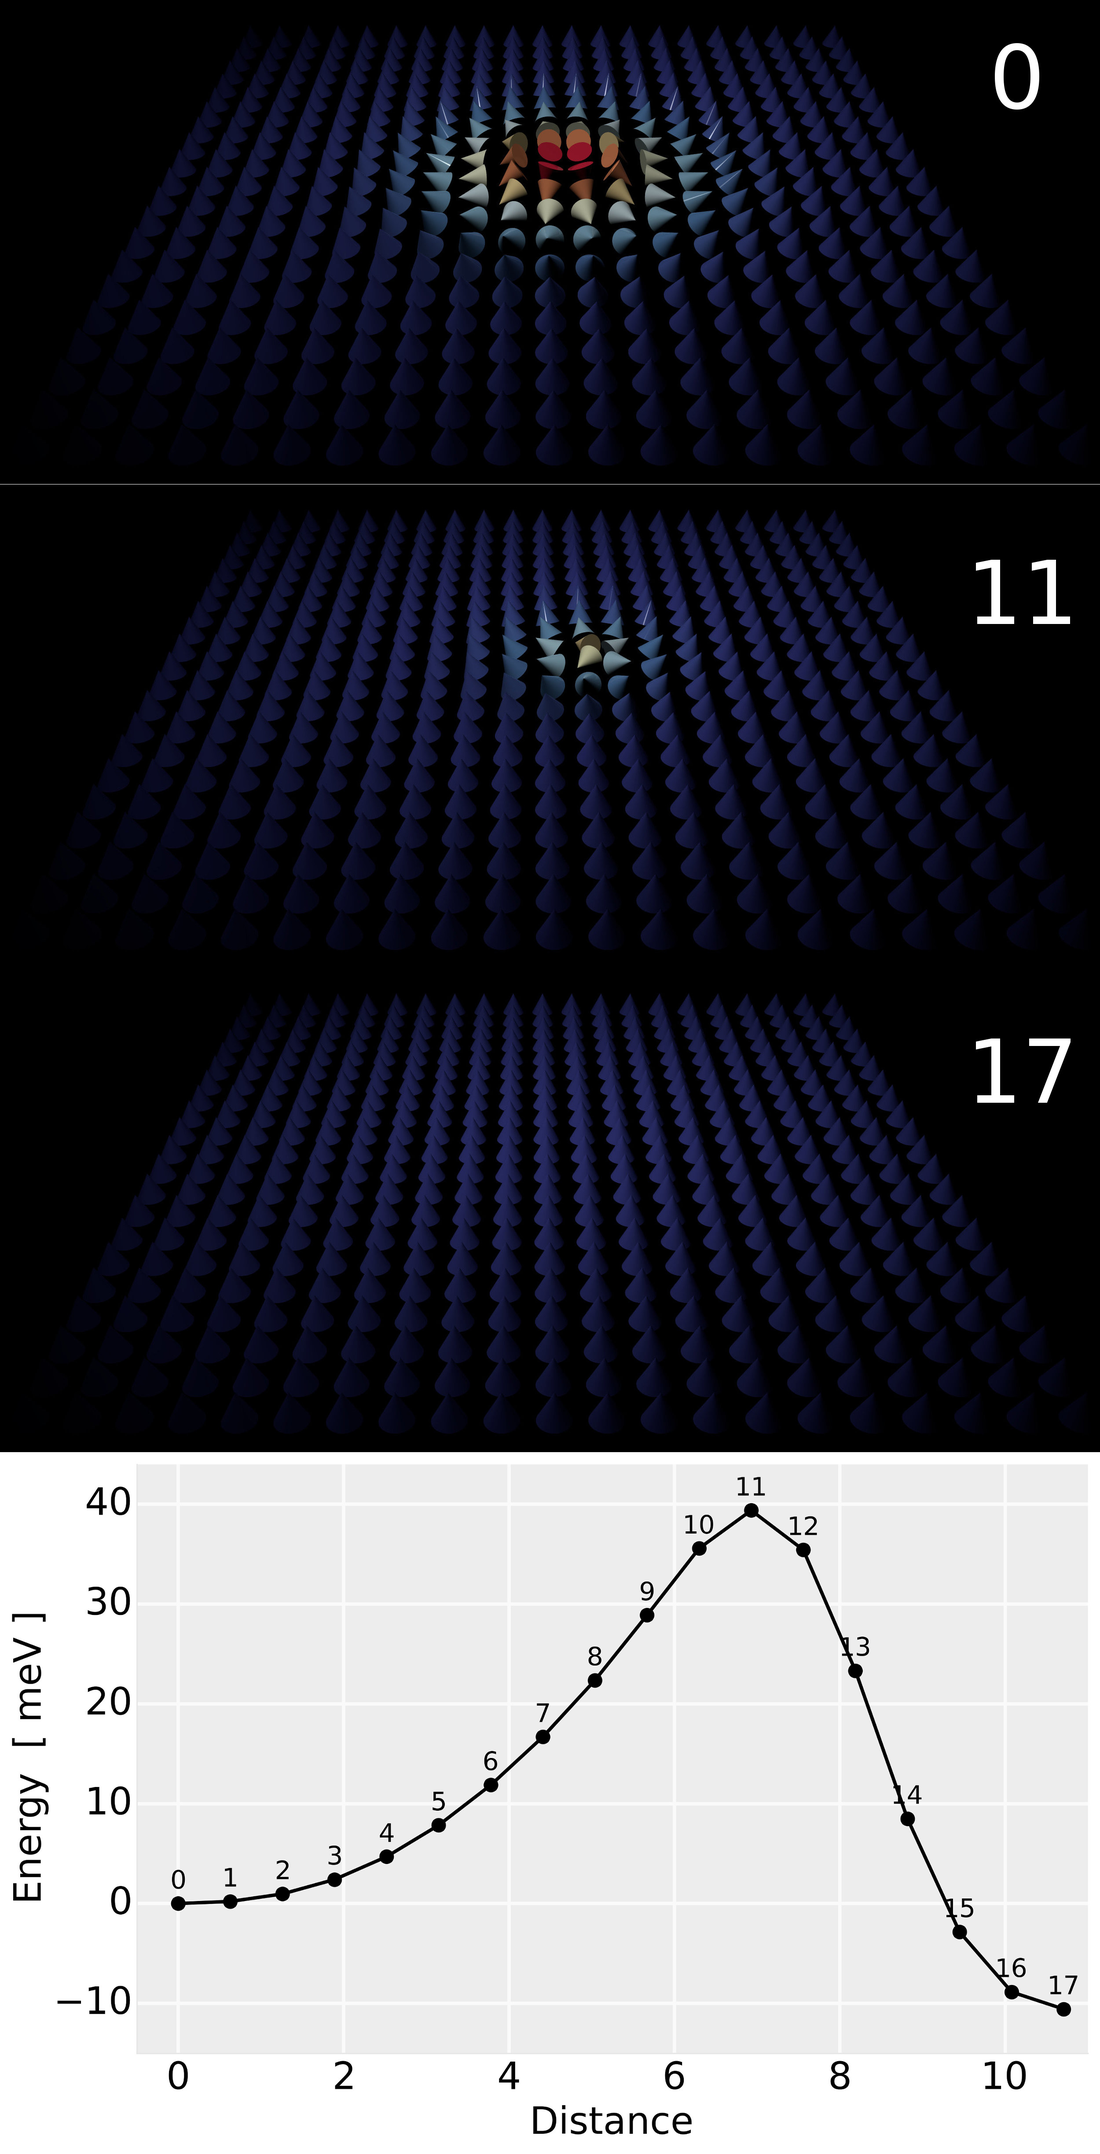
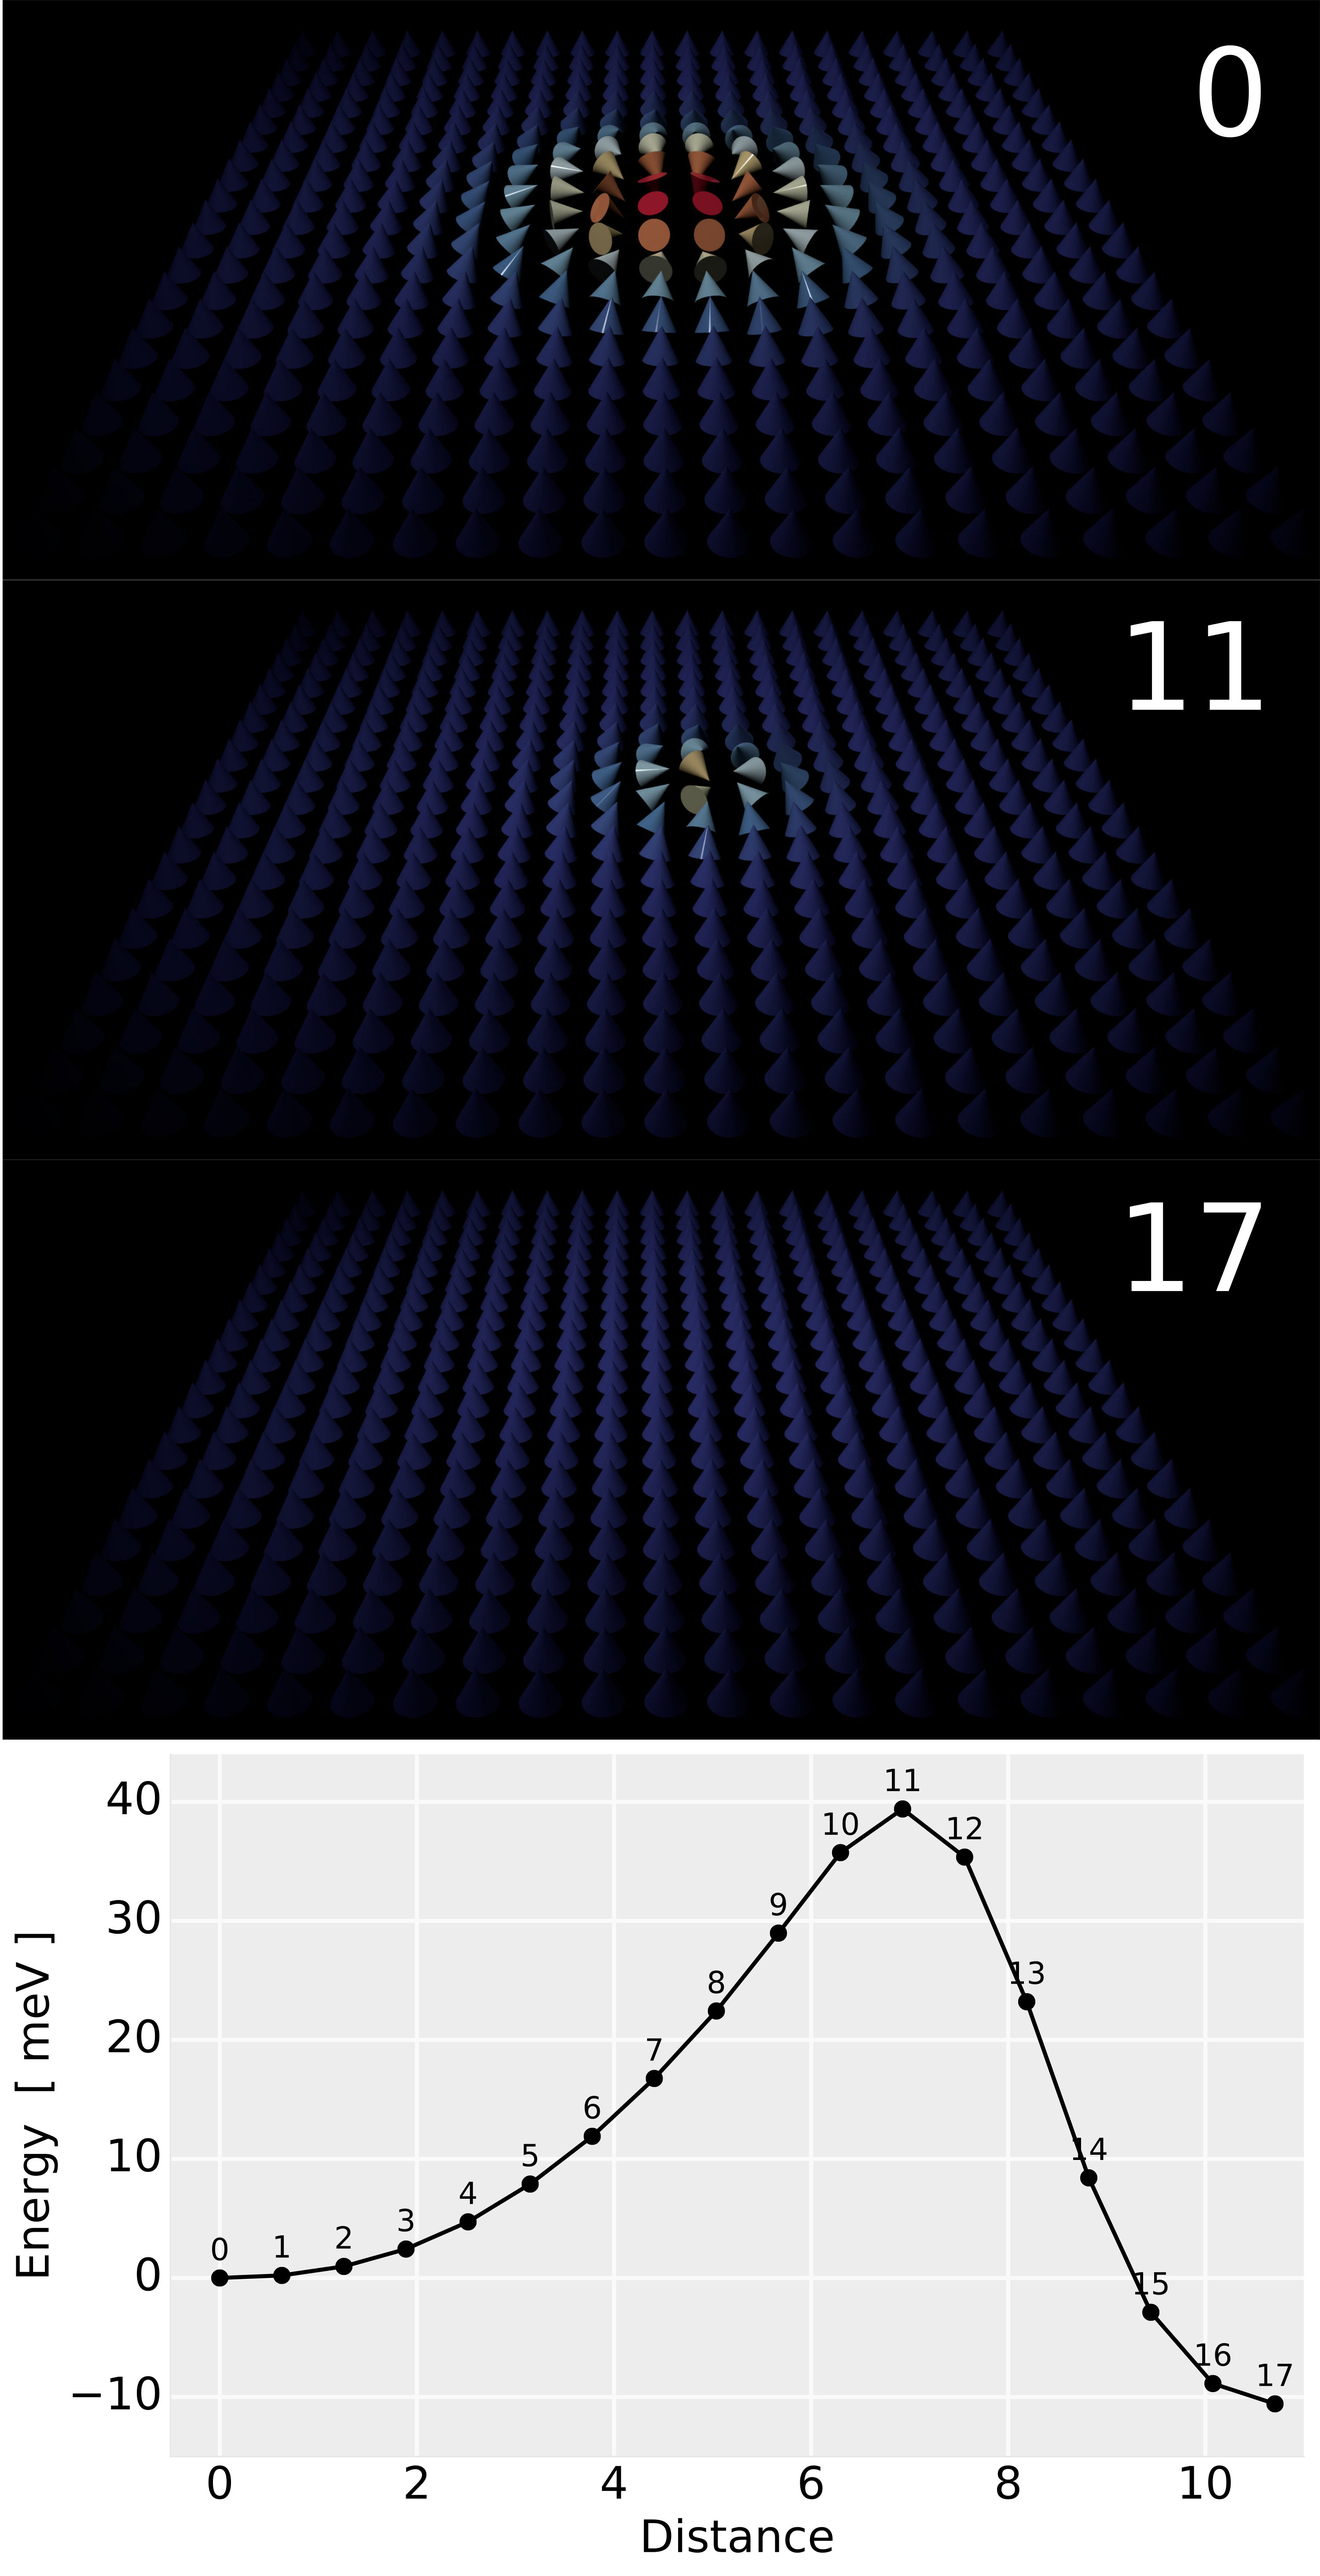
Fixed Povray figure (coordinate system conversion problems)

diff --git a/figs/povray/generate_povray_inc.py b/figs/povray/generate_povray_inc.py
@@ -21,11 +21,13 @@ Contact to: d.i.cortes@soton.ac.uk
 
 # FIDIMAG Simulation imports:
 from fidimag.atomistic import Sim
-from fidimag.atomistic import FDMesh
+from fidimag.common import CuboidMesh
 from fidimag.atomistic import DMI
 from fidimag.atomistic import UniformExchange
 from fidimag.atomistic import Zeeman
 from fidimag.atomistic import Constant
+from os import listdir
+import re
 
 # Import physical constants from fidimag
 const = Constant()
@@ -37,19 +39,28 @@ from fidimag.common.neb_cartesian import NEB_Sundials
 import numpy as np
 from matplotlib import cm
 
-mesh = FDMesh(nx=21, ny=21,
-              dx=0.5, dy=0.5,
-              unit_length=1e-9,
-              pbc='2d'
-              )
+mesh = CuboidMesh(nx=21, ny=21,
+                  dx=0.5, dy=0.5,
+                  unit_length=1e-9,
+                  periodicity=(True, True, False)
+                  )
 
 # Initialise a simulation object and load the skyrmion
 # or ferromagnetic states
 sim = Sim(mesh, name='neb_21x21-spins_fm-sk_atomic')
 
-sk = '../npys/neb_21x21-spins_fm-sk_atomic_k1e10_239/image_0.npy'
-fm = '../npys/neb_21x21-spins_fm-sk_atomic_k1e10_239/image_17.npy'
-ds = '../npys/neb_21x21-spins_fm-sk_atomic_k1e10_239/image_11.npy'
+# Get the directories inside the npys folder from the NEBM simulation
+# and sort them by the last number (after the k magnitude)
+npys_folder = '../../npys/'
+files_list = listdir(npys_folder)
+files_list = sorted(files_list,
+                    key=lambda f: int(re.search(r'(?<=k1e10_)[0-9]+', f).group(0))
+                    )
+
+# Use the largest step from the files directory
+sk = npys_folder + files_list[-1] + '/image_0.npy'
+fm = npys_folder + files_list[-1] + '/image_17.npy'
+ds = npys_folder + files_list[-1] + '/image_11.npy'
 
 states = {'skyrmion': sk, 'ferromagnetic': fm, 'destruction': ds}
 
@@ -57,7 +68,7 @@ for key in states.keys():
     sim.set_m(np.load(states[key]))
 
     # Append coordinates and spin orientations
-    data = np.append(np.array(sim.mesh.pos),
+    data = np.append(np.array(sim.mesh.coordinates),
                      sim.spin.reshape(-1, 3), axis=1)
 
     # Get the colormap using the last row, i.e. mz
@@ -79,7 +90,9 @@ for key in states.keys():
         # system: x --> -z, y --> x, x --> y
         line += '{},{},{},'.format(-row[2], row[1], row[0])
         # The same for the spins orientations
-        line += '{},{},{},'.format(-row[5], row[4], row[3])
+        # but somehow, Povray's left handed system gives the wrong directions
+        # if we do not correct the sign of the Y, Z components (?)
+        line += '{},{},{},'.format(-row[5], -row[4], -row[3])
 
         # Now the colours
         for num in row[6:]:
